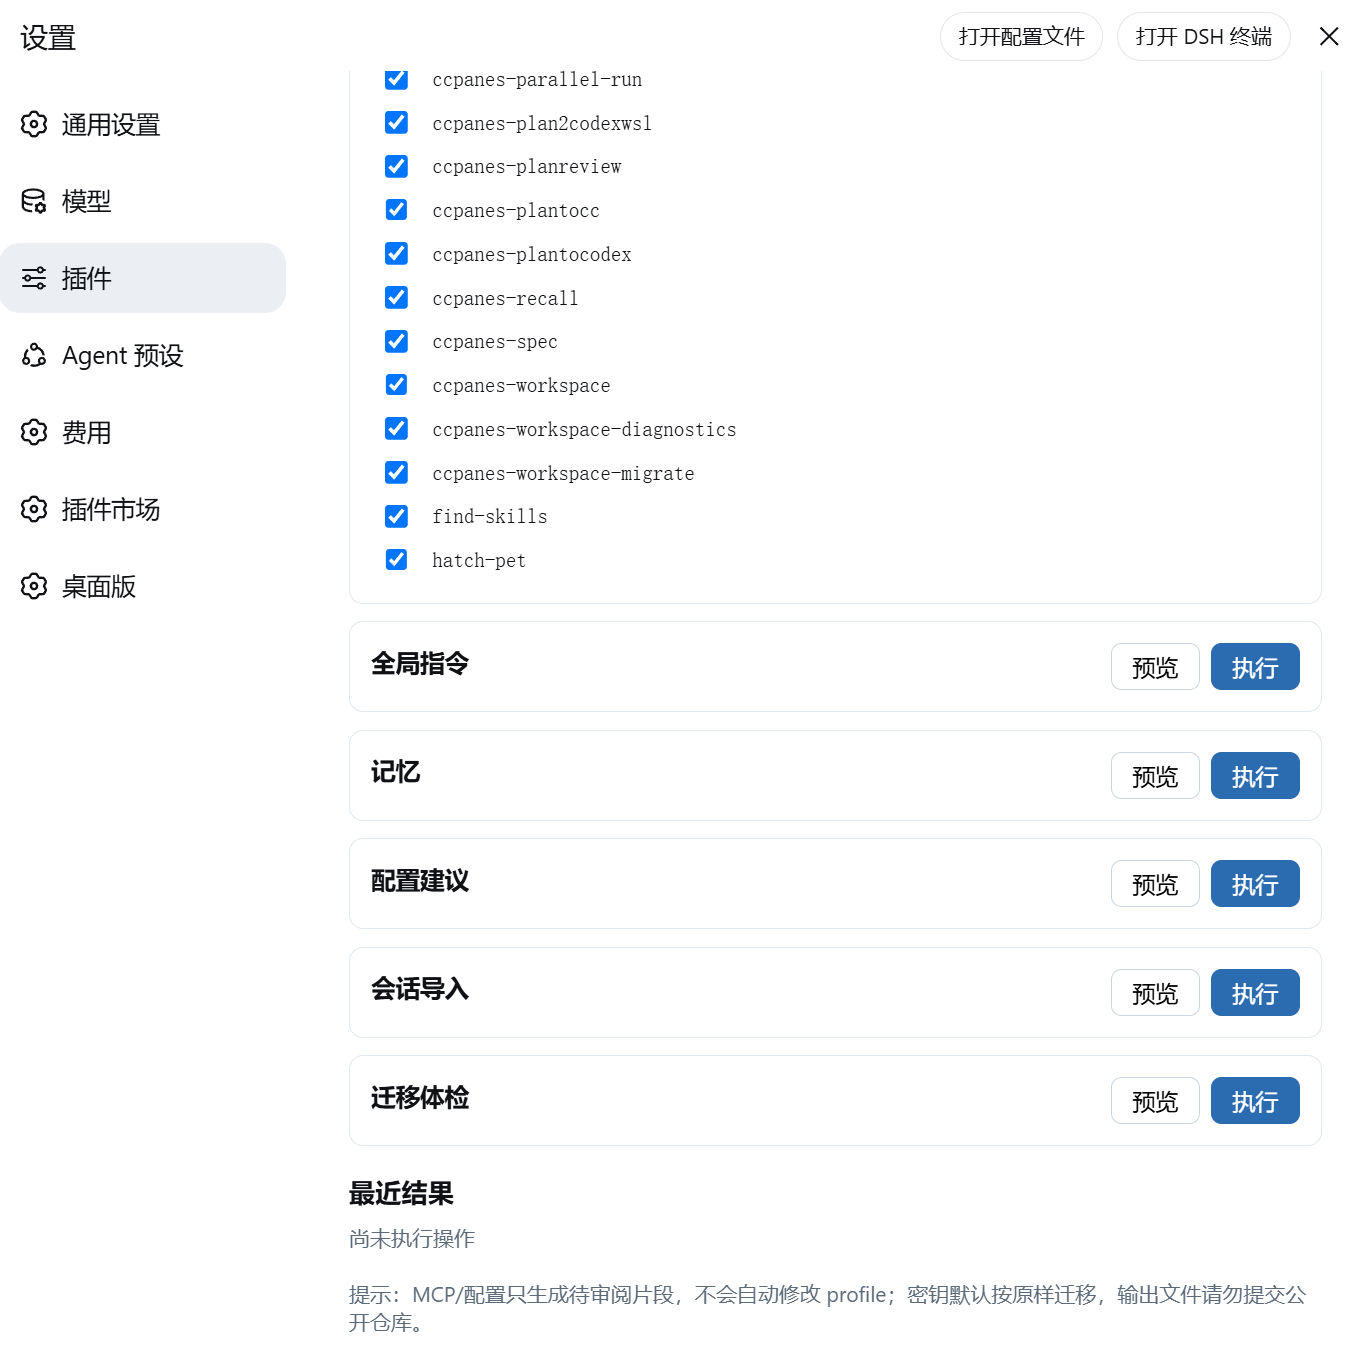
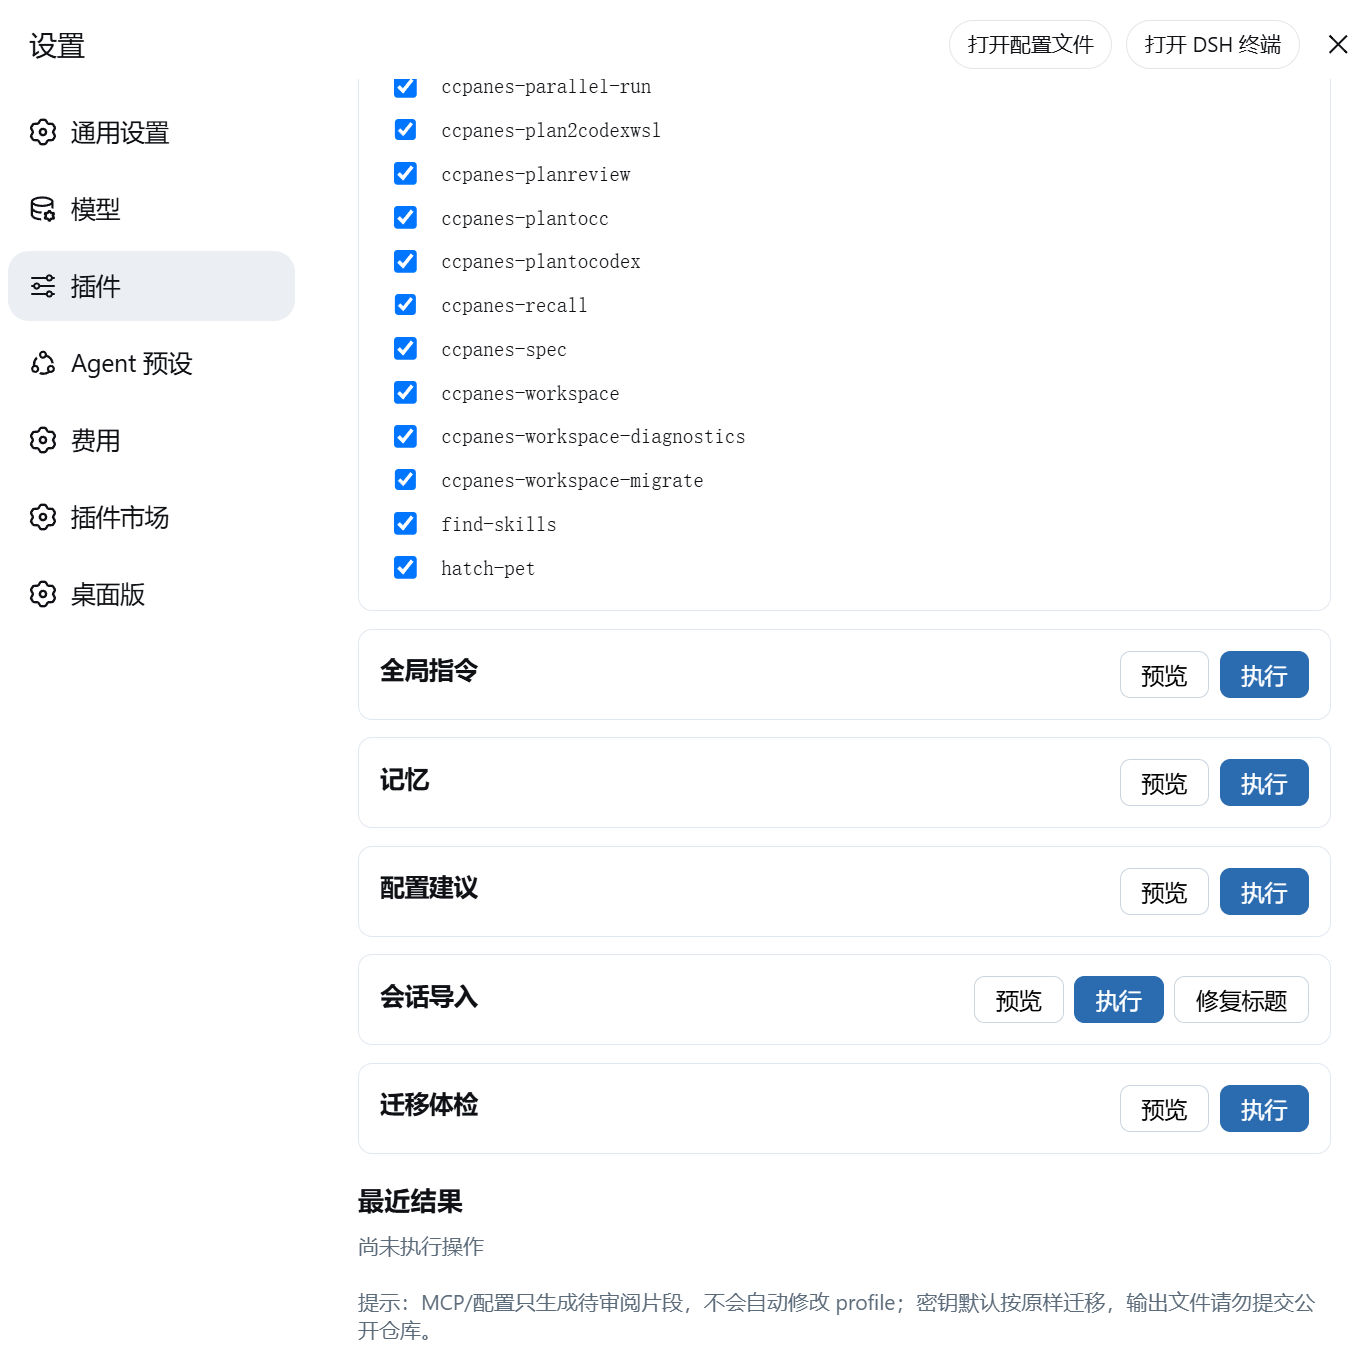
docs: README 加截图预览与新功能（标题回填/repair-titles），更新仓库描述与标签
- README.md：新增「📸 截图预览」区块（raw.githubusercontent URL，GitHub/npm 均可渲染）；新增搜索关键词行；功能表补「会话标题回填」「坏标题修复」；CLI 示例补 titles/repair-titles；FAQ 补标题丢失与会话打不开（surfaceOp 缺陷）条目
- assets/screenshot-panel-bottom.png：刷新为 2026-08-25 新版（含会话导入「修复标题」）
- package.json：keywords 扩充（deepseek/codex-desktop/import/session/cli 等 16 个 npm 搜索标签）
- GitHub 仓库：描述更新（含会话历史导入）+ topics 扩至 18 个（migration/mcp/skills/memory/config/import/cli/nodejs）
- docs/awesome-dsh-plugin-submission.md：截图备注更新

diff --git a/docs/awesome-dsh-plugin-submission.md b/docs/awesome-dsh-plugin-submission.md
@@ -5,7 +5,7 @@
 
 ## 已完成的前置准备
 
-- [x] 截图入库：`assets/screenshot-panel-top.png`、`assets/screenshot-panel-bottom.png`（已推送，raw URL 验证 200）
+- [x] 截图入库：`assets/screenshot-panel-top.png`、`assets/screenshot-panel-bottom.png`（已推送，raw URL 验证 200；底页截图已于 2026-08-25 刷新，含会话导入「修复标题」等新功能）
 - [x] 仓库添加 `dsh-plugin` topic
 - [x] npm 包 `codex2dsh@0.1.0` 已发布（repository 字段指向本仓库，自动关联下载量）
 - [x] `package.json` 声明 `dsh.bundle.patch` + 仓库根 `cordis.patch.yml`（可安装性校验通过）
